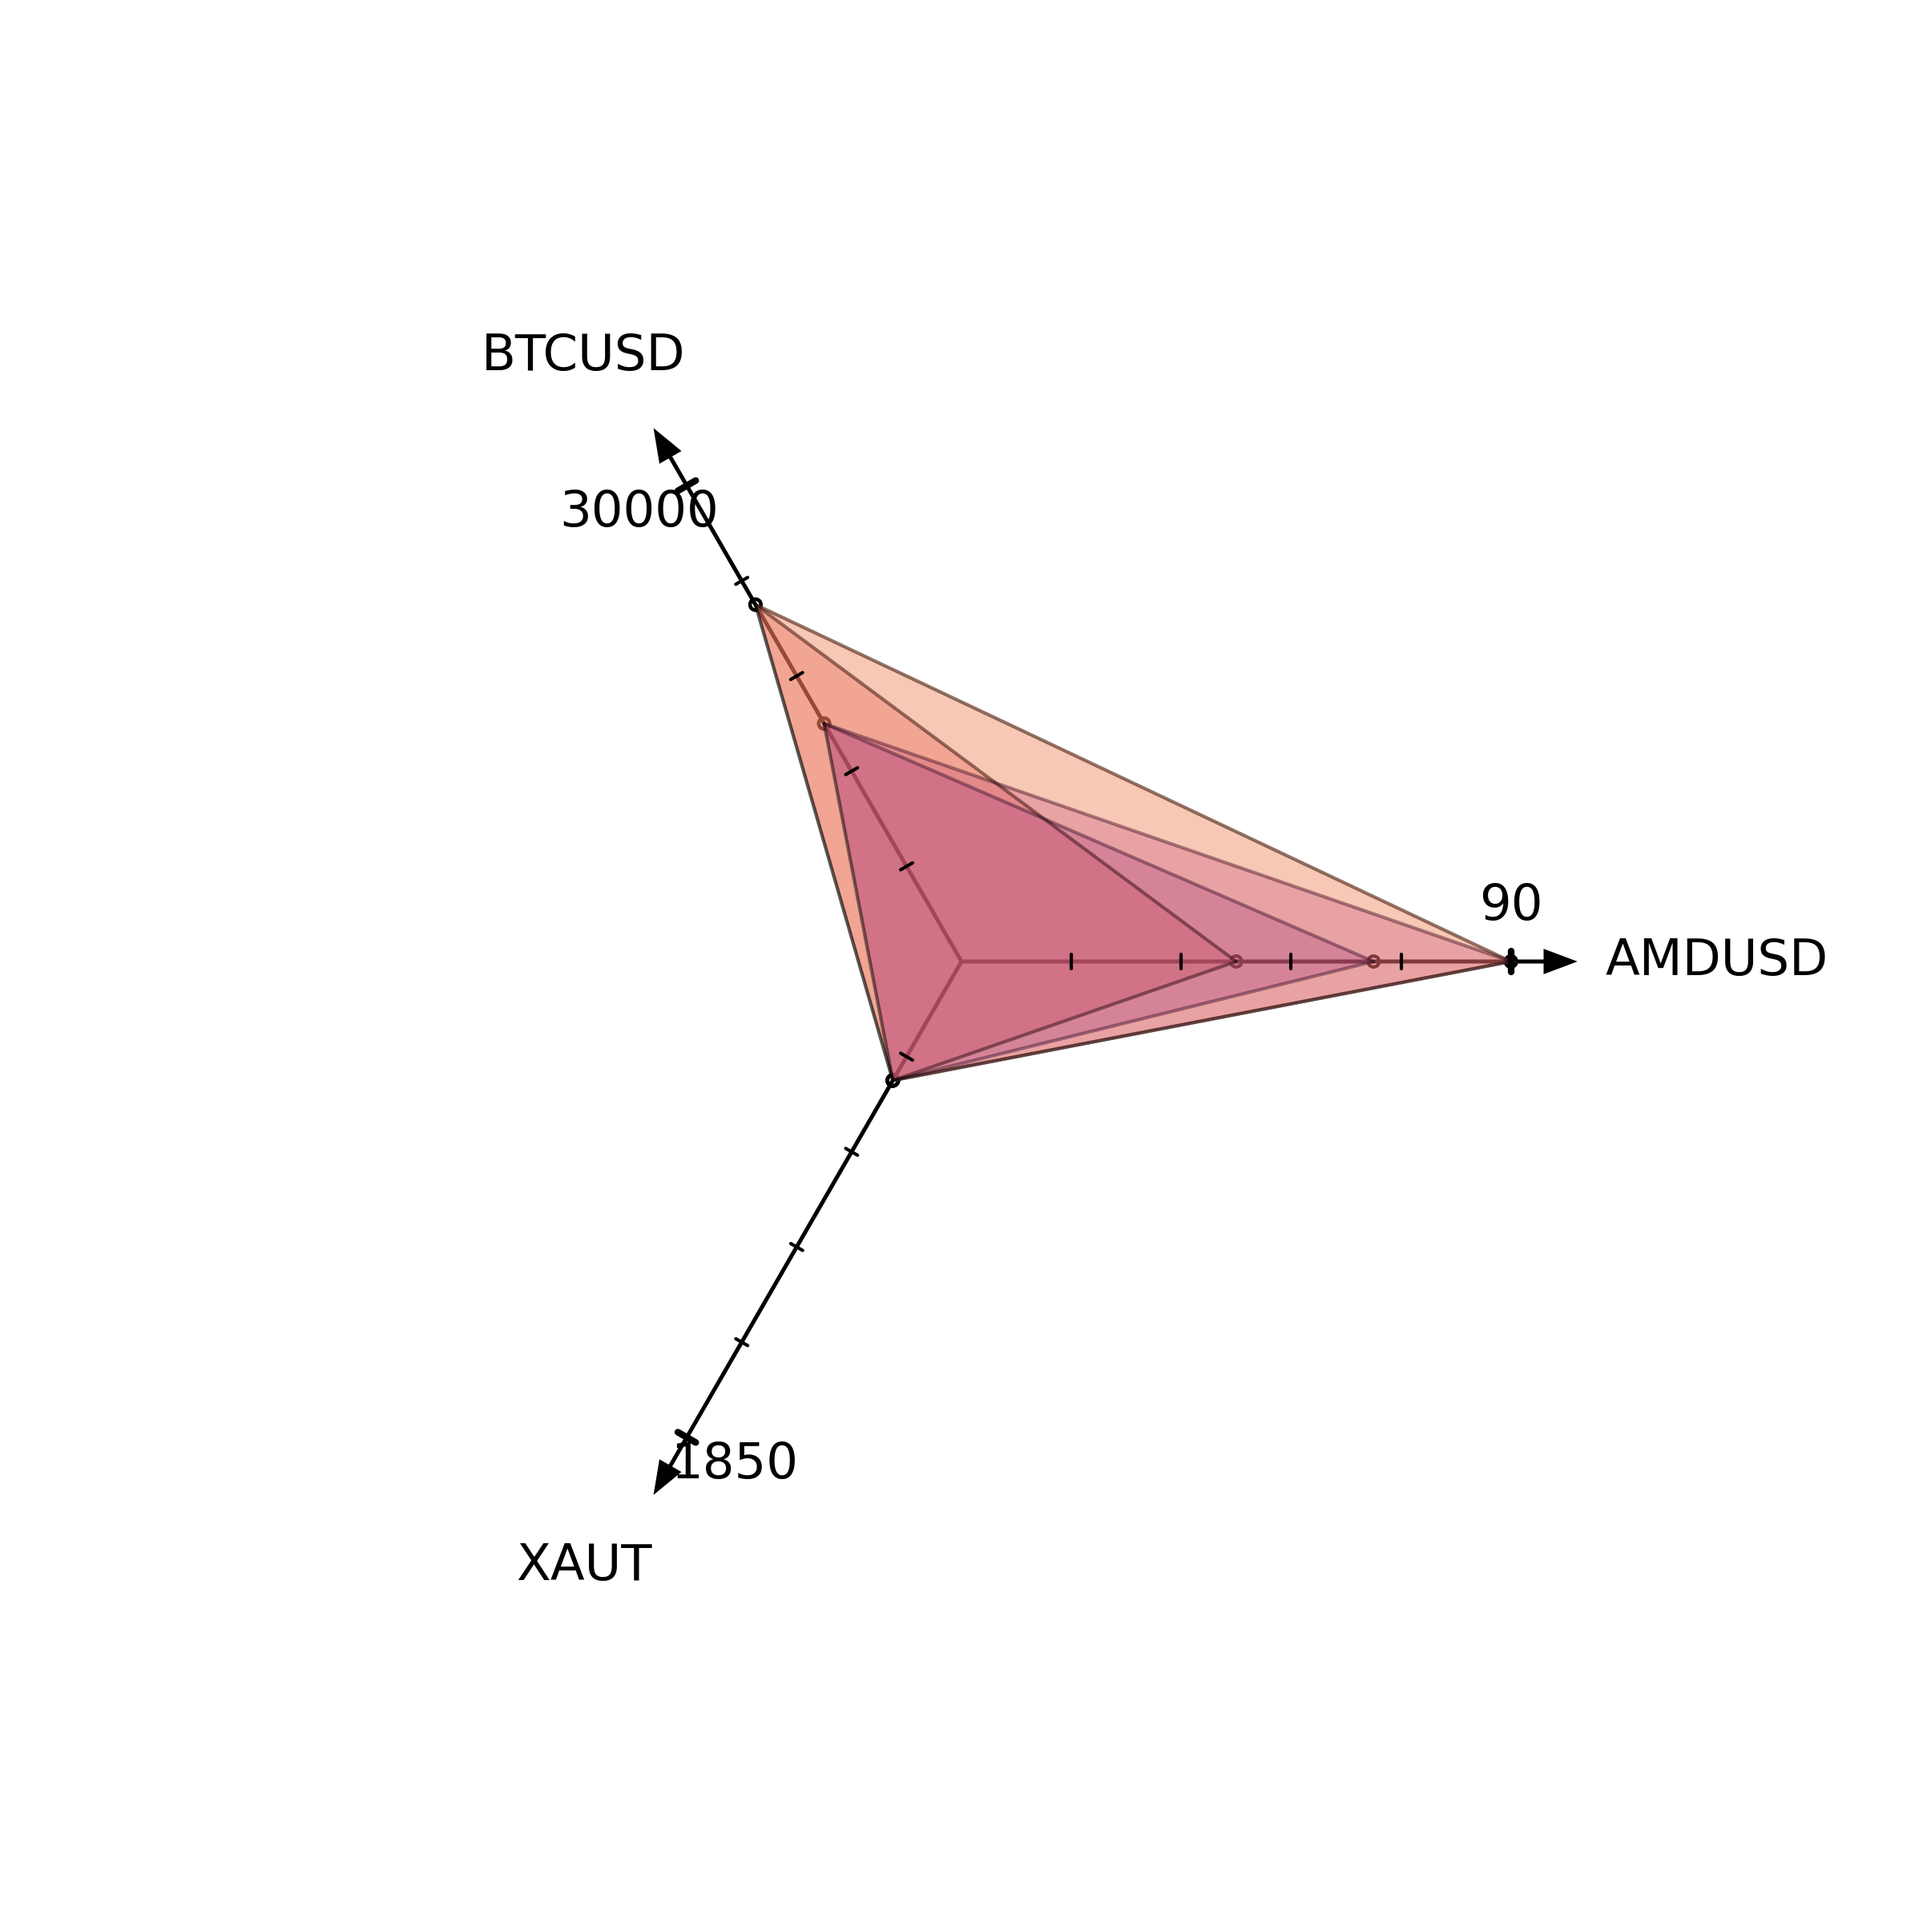
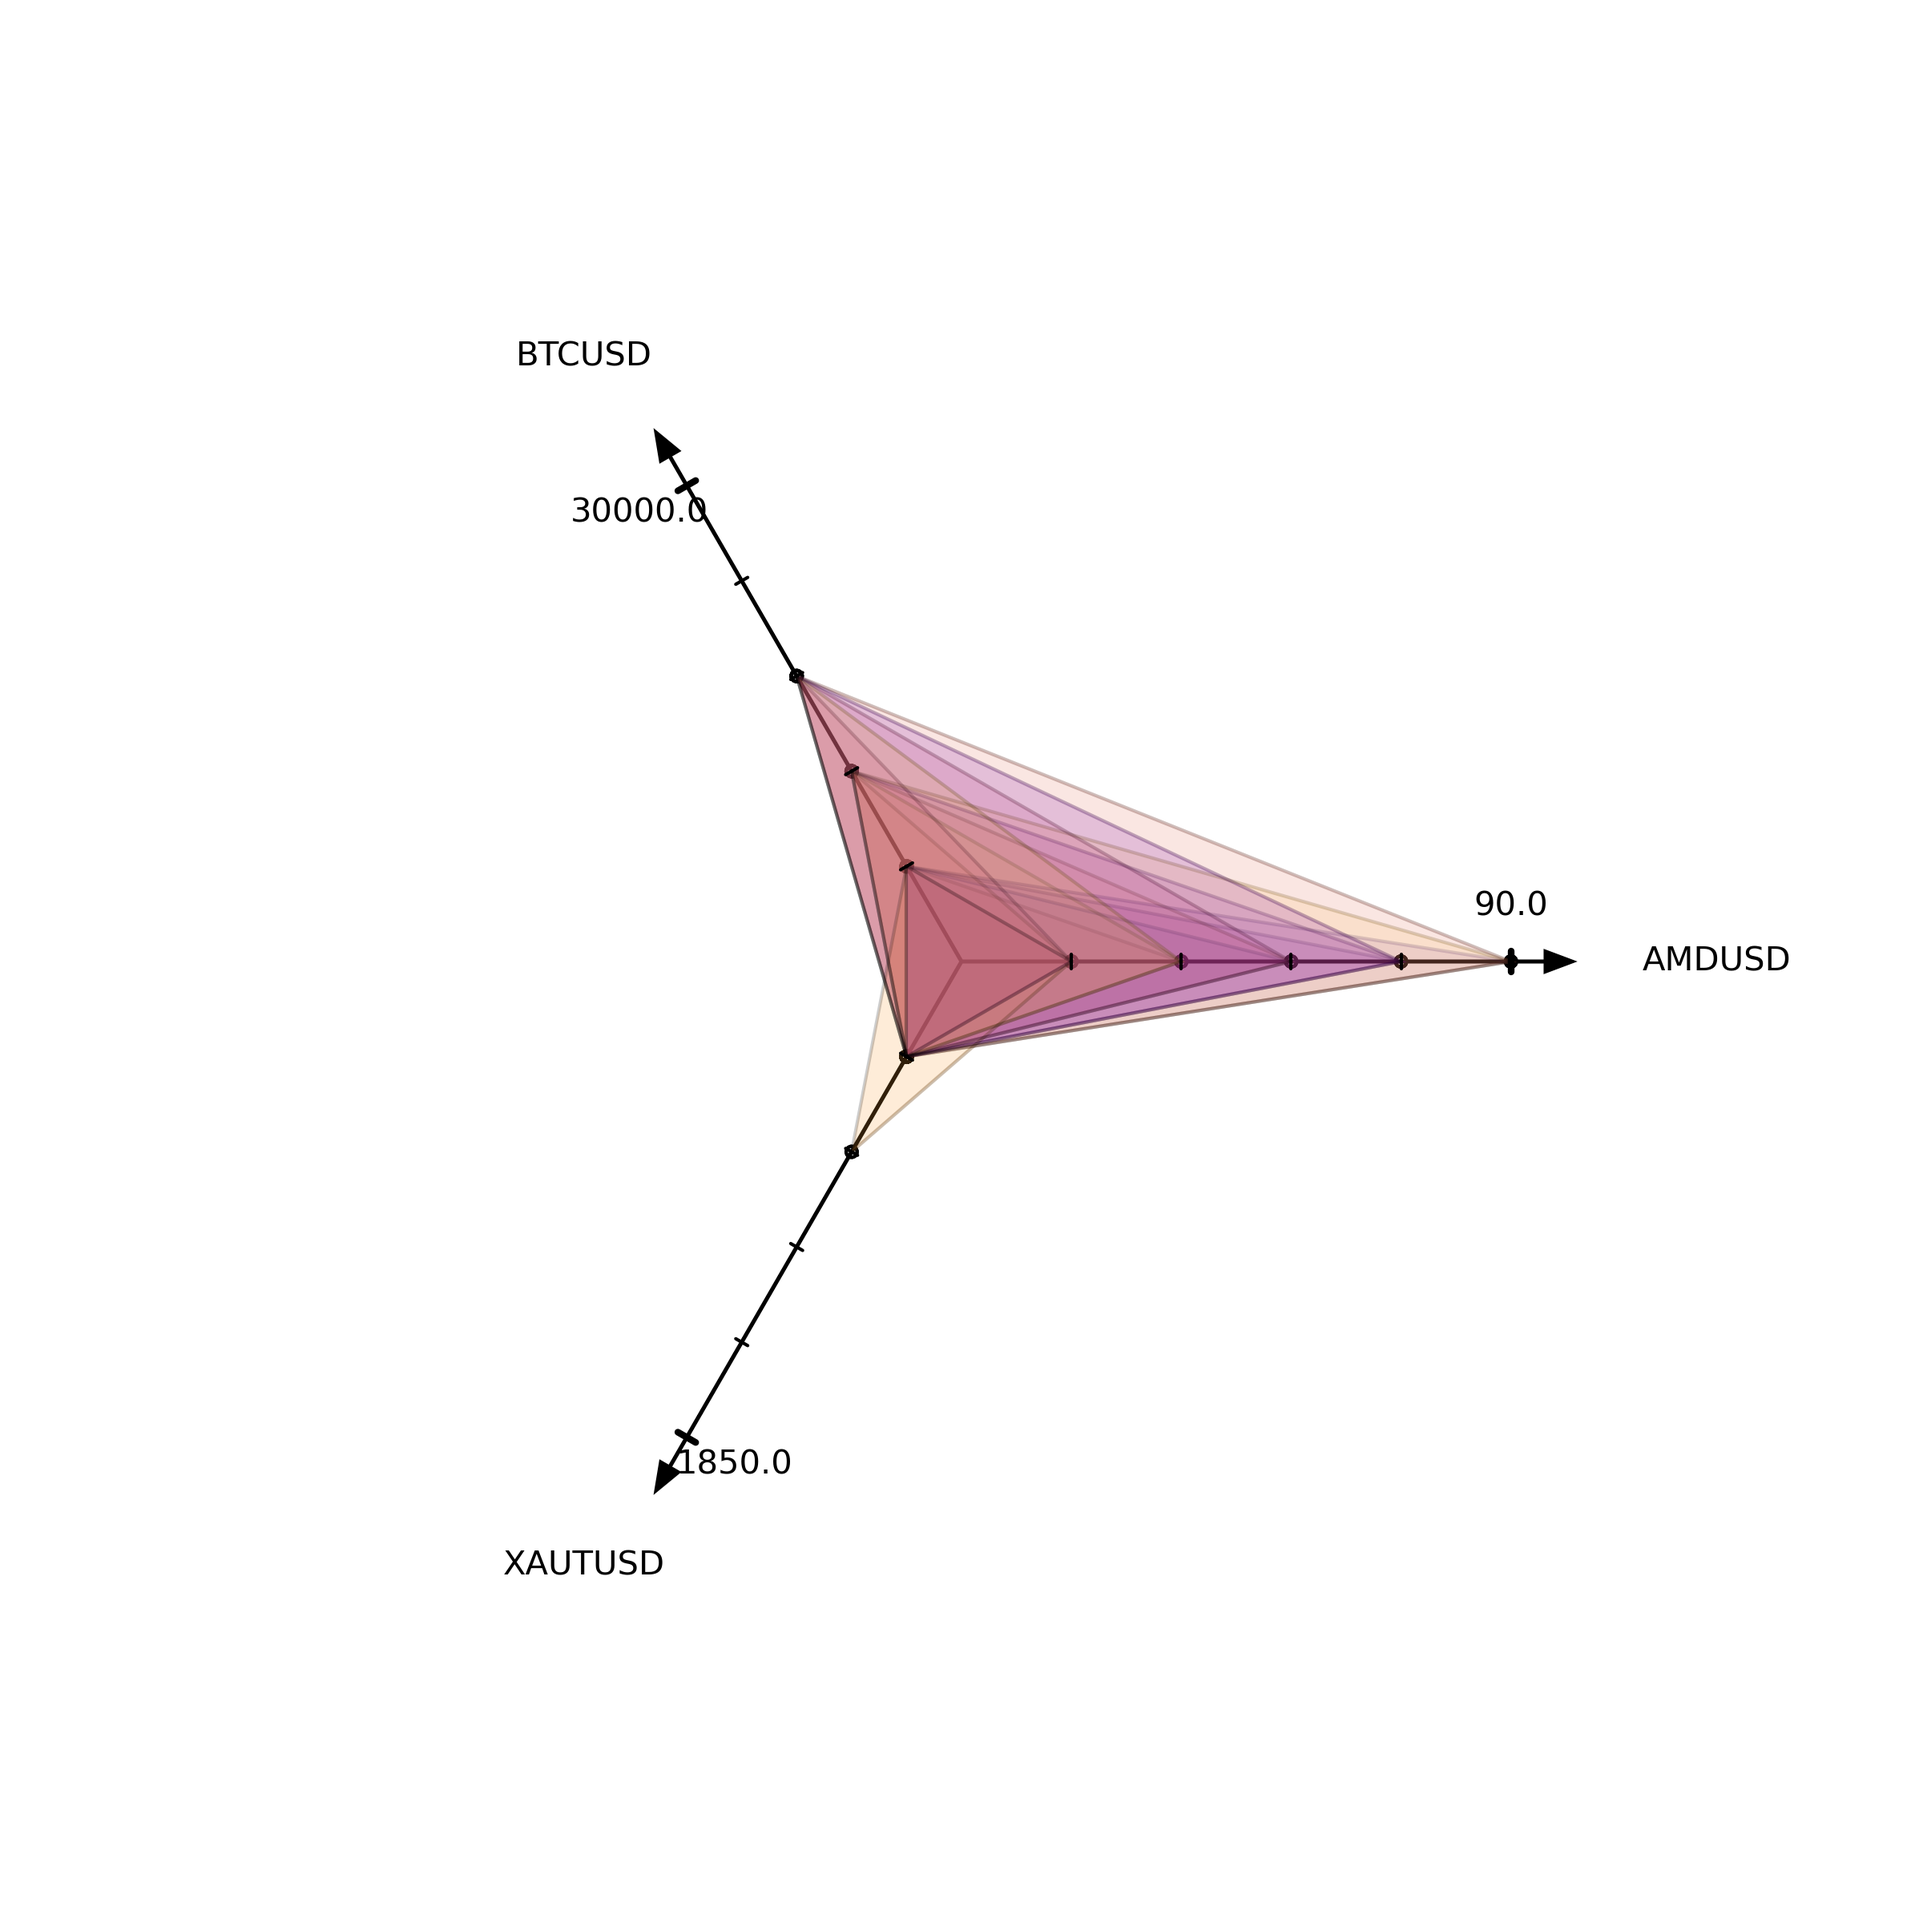
Improve readme + fix small errors

diff --git a/plot.py b/plot.py
@@ -21,7 +21,7 @@ major_tick_length  = 0.015   # length of MAJOR tick markers (the last marker)
 minor_tick_length  = 0.010   # length of MINOR tick markers
 origin_circle_size = major_tick_length / 2   # size of the marker at the origin
 
-tick_label_format = "%i"              # format of the major-tick label
+tick_label_format = "%.1f"              # format of the major-tick label
 tick_label_parallel_pad      = 0.00   # distance between the axis major tick and its label, along the axis direction
 tick_label_perpendicular_pad = 0.08   # distance between the axis major tick and its label, along the direction perpendicular to the axis
 
@@ -31,8 +31,8 @@ hide_plot_frame = True   # whether to hide the subplot frame
 
 # settings for a colorfull plot
 plot_title_properties = {'color':'black', 'fontsize':20, 'horizontalalignment':'center', 'verticalalignment':'center'}
-tick_label_properties = {'color':'blue',  'fontsize':15, 'horizontalalignment':'center', 'verticalalignment':'center'}
-axis_label_properties = {'color':'red',   'fontsize':15, 'horizontalalignment':'center', 'verticalalignment':'center'}
+tick_label_properties = {'color':'blue',  'fontsize':10, 'horizontalalignment':'center', 'verticalalignment':'center'}
+axis_label_properties = {'color':'red',   'fontsize':10, 'horizontalalignment':'center', 'verticalalignment':'center'}
 
 axis_arrow_properties      = {'linestyle':'-', 'linewidth':1.0, 'facecolor':'red', 'edgecolor':'red'}
 
@@ -45,8 +45,8 @@ point_circle_properties    = {'linestyle':'-', 'linewidth':1.0, 'edgecolor':'gre
 
 # settings for a black-and-white plot
 plot_title_properties = {'color':'black', 'fontsize':20, 'horizontalalignment':'center', 'verticalalignment':'center'}
-tick_label_properties = {'color':'black', 'fontsize':15, 'horizontalalignment':'center', 'verticalalignment':'center'}
-axis_label_properties = {'color':'black', 'fontsize':15, 'horizontalalignment':'center', 'verticalalignment':'center'}
+tick_label_properties = {'color':'black', 'fontsize':10, 'horizontalalignment':'center', 'verticalalignment':'center'}
+axis_label_properties = {'color':'black', 'fontsize':10, 'horizontalalignment':'center', 'verticalalignment':'center'}
 
 axis_arrow_properties      = {'linestyle':'-', 'linewidth':1.0, 'facecolor':'black', 'edgecolor':'black'}
 

diff --git a/main.py b/main.py
@@ -4,12 +4,11 @@ import numpy as np
 from itertools import permutations
 from plot import MultipleAxisPlot
 
-
 # current positions
 data = json.load(open("example.json"))
 
-collateral = 100000 # usd collateral
-n_tick = 5
+collateral = 80000 # usd collateral
+n_tick = 5 # ticks on axis
 
 if __name__ == "__main__":
 
@@ -24,9 +23,9 @@ if __name__ == "__main__":
     plot.drawAxis(maxvals=prices, names=names)
 
     # create permutations of prices
-    subtotals = np.array([np.linspace(0, prices[idx], n_tick) * factors[idx] * amounts[idx] for idx in range(len(prices))])
-    prices = np.array([np.linspace(0, prices[idx], n_tick) for idx in range(len(prices))])
-    perms = list(permutations(list(range(0, n_tick)), len(prices)))
+    subtotals = np.array([np.linspace(0, prices[idx], n_tick + 1) * factors[idx] * amounts[idx] for idx in range(len(prices))])
+    ticks = np.array([np.linspace(0, prices[idx], n_tick + 1) for idx in range(len(prices))])
+    perms = list(set(permutations(list(range(0, n_tick + 1)) * len(prices), len(prices))))
     indices = tuple(range(len(prices)))
 
     # calculate collateral value and plot
@@ -35,9 +34,8 @@ if __name__ == "__main__":
         total = np.sum(subtotals[idx])
 
         if (total <= collateral) and (0 not in perm):
-            print(perm)
             alpha = total / collateral
-            plot.drawPolygon(prices[idx], alpha = 0.5 * (alpha ** 2))
+            plot.drawPolygon(ticks[idx], alpha = 0.2 * (alpha ** 2))
 
     # plot.drawPolygon([1000.0,  6.0,  3.0, 1.0], 0.8)
     plot.savePlot("plot.png", {'dpi':300})

diff --git a/readme.md b/readme.md
@@ -9,5 +9,3 @@ This tool helps assess USD collateral on FTX for cross-margin positions.
     * number of collateral assets is arbitrary
 
 ![Example Collateral Position](plot.png)
-
-Contributions highly welcome ❤
